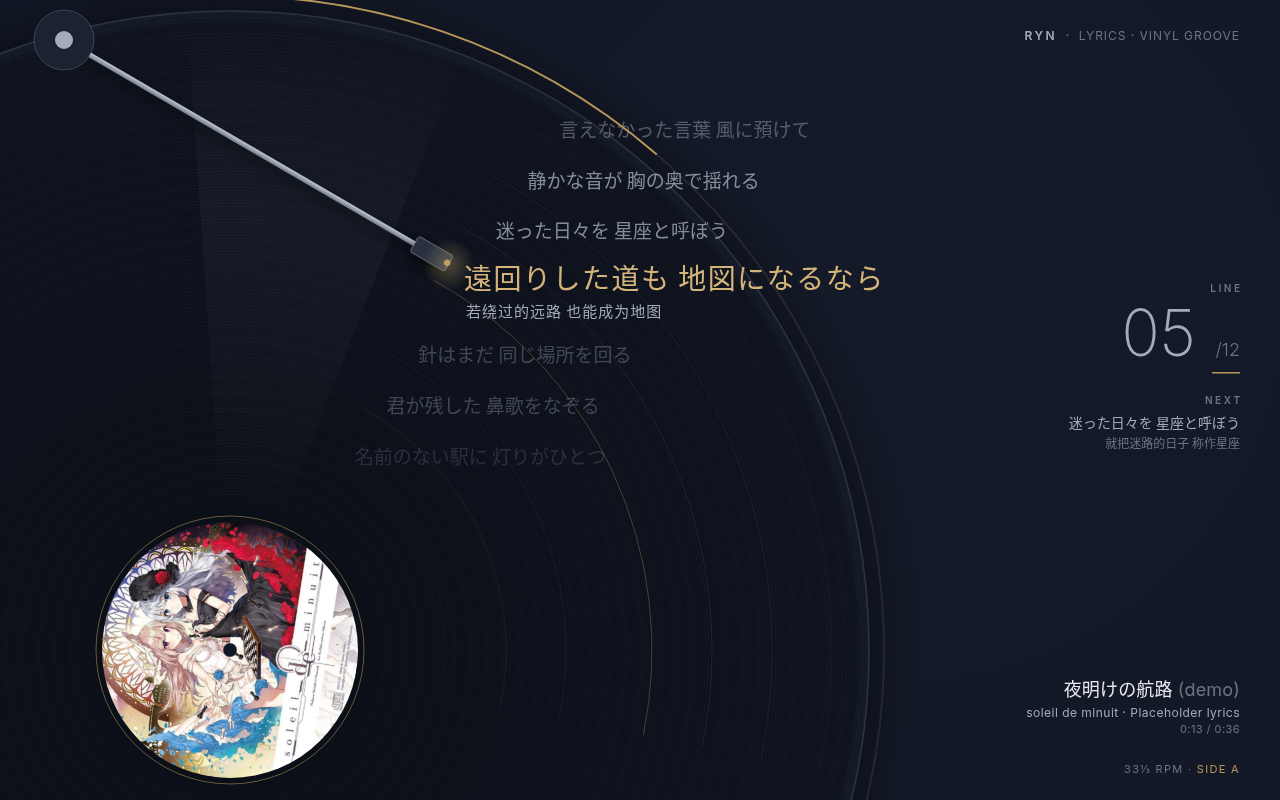
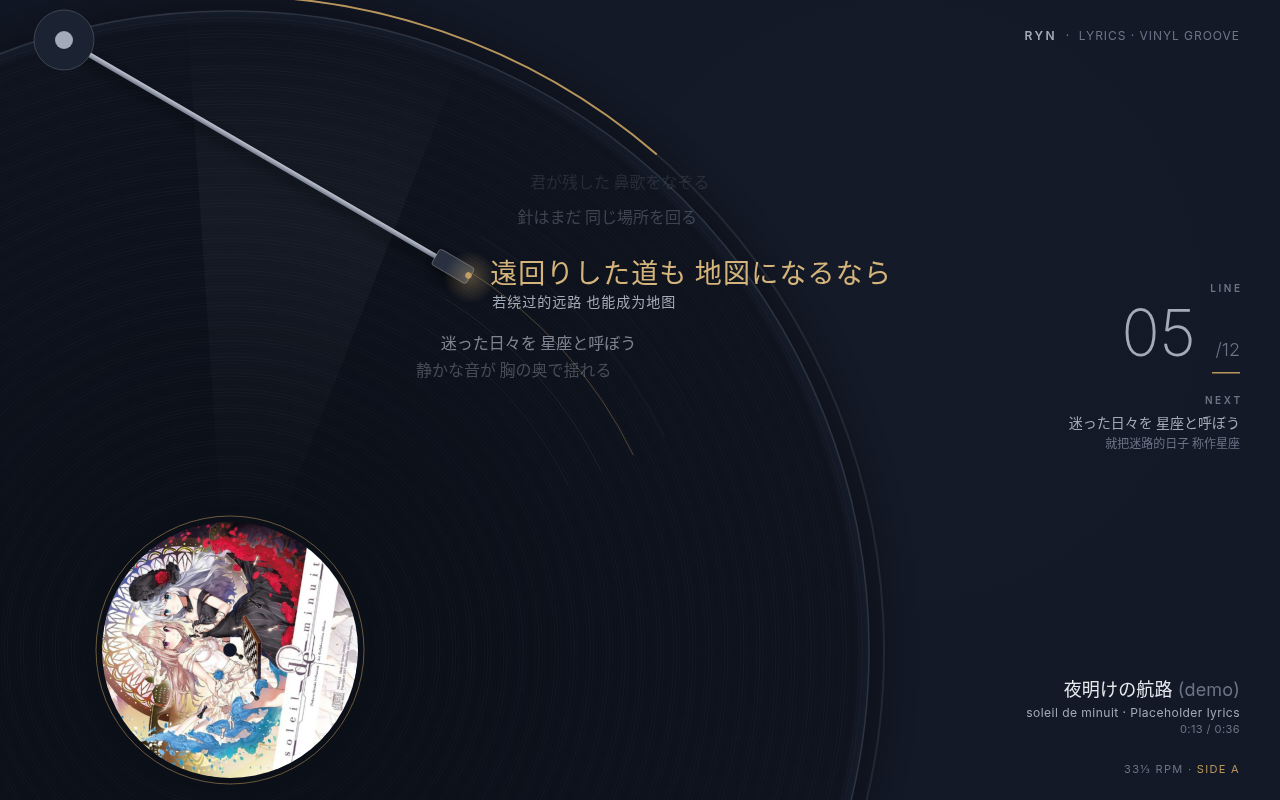
lyric-dial concept 1: tonearm tracks song progress outer→inner; lines on time-mapped grooves

diff --git a/ryn-lyric-dial/concept-1/index.html b/ryn-lyric-dial/concept-1/index.html
@@ -11,9 +11,16 @@
 </div>
 <script src="../assets/common.js"></script>
 <script>
-const CX = 230, CY = 650, R = 640, RC = 430, GAP = 60, LABEL = 128;
-const A = -60 * Math.PI / 180;       // needle angle (where every line starts)
-const PIV = {x: 64, y: 40};
+const CX = 230, CY = 650, R = 640, LABEL = 128;
+const PIV = {x: 64, y: 40}, ARM = 470;             // tonearm pivot + length (fixed)
+const R_OUT = 610, R_IN = 178, RETURN = 1.0;       // lead-in groove → run-out groove near the label
+const rAt = tt => lerp(R_OUT, R_IN, clamp(tt / SONG_DUR));          // needle radius at song time tt
+const grooveR = i => rAt((i + .5) * LINE_DUR);                       // line i's groove = needle radius mid-line
+const easeInOutSine = x => -(Math.cos(Math.PI * x) - 1) / 2;
+function tipAt(r) {   // where the arm's arc (around PIV, radius ARM) crosses groove radius r (right-hand solution)
+  const dx = CX - PIV.x, dy = CY - PIV.y, d = Math.hypot(dx, dy), a = (ARM * ARM - r * r + d * d) / (2 * d), h = Math.sqrt(Math.max(0, ARM * ARM - a * a));
+  return {x: PIV.x + a * dx / d + h * dy / d, y: PIV.y + a * dy / d - h * dx / d};
+}
 boot(({ctx, cover}, t, s) => {
   bgFill(ctx, 900, 300, 1100);
   const rot = t * 0.35;               // slow visual spin
@@ -50,45 +57,42 @@ boot(({ctx, cover}, t, s) => {
   ctx.fillStyle = C.bg; ctx.beginPath(); ctx.arc(CX, CY, 7, 0, Math.PI * 2); ctx.fill();
   ctx.strokeStyle = 'rgba(255,255,255,.25)'; ctx.stroke();
 
-  // lyric lines in grooves
-  ctx.textBaseline = 'alphabetic';
-  const items = [];
+  // ── needle tracks the song: outer groove at 0:00 → inner groove near the label at the end (continuous)
+  const sT = s.song;
+  let rN = rAt(sT);
+  if (sT < RETURN) rN = lerp(R_IN, rAt(sT), easeInOutSine(sT / RETURN));   // arm glides back out when the song loops
+  const tip = tipAt(rN);
+  // continuous line position (no wrap inside the song): p ∈ [-1, N-1]
+  const pLin = (s.idx === 0 && s.p > N - 1.5) ? s.p - N : s.p;
+
+  // lyric lines: line i lives on groove r_i = needle radius at the middle of its time slot
+  ctx.textBaseline = 'alphabetic'; ctx.textAlign = 'left';
   for (let i = 0; i < N; i++) {
-    const d = rel(i, s.p);
-    if (d < -4.6 || d > 3.6) continue;
-    items.push({i, d, r: RC + d * GAP - 26 * clamp(-d)});
-  }
-  for (const it of items) {
-    const f = focus(it.d);
-    const size = lerp(19, 28, f);
-    const fade = clamp(1 - (Math.abs(it.d) - 2.4) / 1.4) ; // fade far lines
-    const r = it.r;
-    // the groove the line sits in
-    ctx.lineWidth = 1;
-    ctx.strokeStyle = f > 0.01 ? `rgba(184,149,90,${0.35 * f})` : `rgba(255,255,255,${0.05 * fade})`;
-    ctx.beginPath(); ctx.arc(CX, CY, r - 8, A - .02, A + 1.25); ctx.stroke();
-    ctx.font = `${f > .5 ? 500 : 400} ${size}px ${FONT_JA}`;
-    const base = it.d > 0 ? C.sec : C.muted;
+    const d = i - pLin; if (d < -2.7 || d > 2.7) continue;
+    const f = focus(d), e = f * f * (3 - 2 * f);
+    const ri = grooveR(i);
+    // the groove itself (true radius), short arc running on from the arm
+    const ga = Math.atan2(tipAt(ri).y - CY, tipAt(ri).x - CX);
+    ctx.lineWidth = 1; ctx.strokeStyle = f > 0.01 ? `rgba(184,149,90,${0.4 * f})` : `rgba(255,255,255,${0.05 * clamp(1 - (Math.abs(d) - 1.5) / 1.5)})`;
+    ctx.beginPath(); ctx.arc(CX, CY, ri, ga - .02, ga + .55); ctx.stroke();
+    // text sits on the arm's sweep at its groove; neighbours ease apart a little to give the current line air
+    const push = d > 0 ? -50 * clamp(d) : 26 * clamp(-d);
+    const P = tipAt(ri + push);
+    const size = lerp(16, 27, e);
+    const fade = clamp(1 - (Math.abs(d) - 1.4) / 1.2);
+    ctx.font = `${f > .5 ? 500 : 400} ${size}px ${FONT_JA}`; ctx.letterSpacing = `${(e * 1.2).toFixed(2)}px`;
+    const base = d > 0 ? C.sec : C.muted;
     ctx.fillStyle = f > 0.01 ? mixColor(base, C.goldHi, f) : base;
-    ctx.globalAlpha = clamp(fade * (it.d < 0 ? .55 : .8) + f * .5);
-    // upright text: each line starts where its groove meets the needle and reads horizontally
-    const sx = CX + r * Math.cos(A + 0.035) + 6, sy = CY + r * Math.sin(A + 0.035) + 4;
-    ctx.textAlign = 'left'; ctx.letterSpacing = `${(f * 1.5).toFixed(2)}px`;
-    ctx.fillText(LYRICS[it.i].ja, sx, sy);
-    // translation: upright, just below the current line
-    if (f > 0.02) {
-      ctx.globalAlpha = f * f; ctx.letterSpacing = '1px';
-      ctx.font = `400 15px ${FONT_ZH}`; ctx.fillStyle = C.sec;
-      ctx.fillText(LYRICS[it.i].zh, sx + 2, sy + 28);
-    }
-    ctx.letterSpacing = '0px';
-    ctx.globalAlpha = 1;
+    ctx.globalAlpha = clamp(fade * (d < 0 ? .5 : .75) + f * .5);
+    const tx = P.x + 18, ty = P.y + size * .36;
+    ctx.fillText(LYRICS[i].ja, tx, ty);
+    if (f > 0.02) { ctx.globalAlpha = f * f; ctx.letterSpacing = '1px'; ctx.font = `400 14px ${FONT_ZH}`; ctx.fillStyle = C.sec; ctx.fillText(LYRICS[i].zh, tx + 2, ty + 24); }
+    ctx.globalAlpha = 1; ctx.letterSpacing = '0px';
   }
 
-  // tonearm (pivot top-left, tip at the current groove start)
+  // tonearm: fixed pivot, fixed length; its angle follows the needle radius
   const wob = Math.sin(t * 2.1) * 0.0025;
-  const tip = {x: CX + (RC + 13) * Math.cos(A - .008), y: CY + (RC + 13) * Math.sin(A - .008)};
-  const ang = Math.atan2(tip.y - PIV.y, tip.x - PIV.x) + wob, len = Math.hypot(tip.x - PIV.x, tip.y - PIV.y);
+  const ang = Math.atan2(tip.y - PIV.y, tip.x - PIV.x) + wob, len = ARM;
   ctx.save(); ctx.translate(PIV.x, PIV.y); ctx.rotate(ang);
   ctx.shadowColor = 'rgba(0,0,0,.6)'; ctx.shadowBlur = 14; ctx.shadowOffsetY = 6;
   const ag = ctx.createLinearGradient(0, -3, 0, 3); ag.addColorStop(0, '#c9ced8'); ag.addColorStop(1, '#6b7385');

diff --git a/ryn-lyric-dial/gallery.html b/ryn-lyric-dial/gallery.html
@@ -12,7 +12,7 @@ a.card img{display:block;width:100%;aspect-ratio:16/10;object-fit:cover}
 <h1>Ryn · 歌词盘 Lyric Dial</h1>
 <p class="sub">6 concepts · 1280×800 · placeholder lyrics · append <code>?t=12.5</code> to freeze a moment</p>
 <div class="grid">
-<a class="card" href="concept-1/index.html"><img src="shots/1.png"><div class="meta"><div class="n">CONCEPT 01</div><div class="t">唱片沟槽 · Vinyl Groove</div><div class="d">封面作唱片中心标，歌词沿同心沟槽排布、文字保持正立横排，唱臂针尖点亮当前行，歌词随播放向内推进。</div><div class="g">Godot: _draw() 同心圆 + 每行一个正立 draw_string（起点在沟槽与唱针交点）；标签旋转用 TextureRect.rotation。</div></div></a>
+<a class="card" href="concept-1/index.html"><img src="shots/1.png"><div class="meta"><div class="n">CONCEPT 01</div><div class="t">唱片沟槽 · Vinyl Groove</div><div class="d">封面作唱片中心标，唱针随歌曲进度从外圈连续移向内圈，每句歌词对应其时间点的沟槽，当前行始终在针尖处（正立横排），歌词随播放向内推进。</div><div class="g">Godot: _draw() 同心圆 + 每行一个正立 draw_string（起点在沟槽与唱针交点）；标签旋转用 TextureRect.rotation。</div></div></a>
 <a class="card" href="concept-2/index.html"><img src="shots/2.png"><div class="meta"><div class="n">CONCEPT 02</div><div class="t">星盘 · Astrolabe</div><div class="d">多层刻度环以不同速度转动，歌词刻在外环上，当前行转到 12 点刻度处摆正并点亮。</div><div class="g">Godot: 每环一个 Node2D(rotation) + _draw 刻度；歌词 draw_set_transform 旋转直排文字。</div></div></a>
 <a class="card" href="concept-3/index.html"><img src="shots/3.png"><div class="meta"><div class="n">CONCEPT 03</div><div class="t">仪表 · Gauge</div><div class="d">底部半圆模拟表盘，歌词沿弧排成刻度标签，指针带回弹扫向当前行，上方大字显示。</div><div class="g">Godot: 刻度烘焙一次（静态 _draw），每帧只重画指针 + 两行大字；Tween TRANS_BACK。</div></div></a>
 <a class="card" href="concept-4/index.html"><img src="shots/4.png"><div class="meta"><div class="n">CONCEPT 04</div><div class="t">八音盒滚筒 · Music-box Drum</div><div class="d">横置的透视滚筒印着歌词，当前行在正面平展，其余行随曲面压缩远去；左侧封面铭牌。</div><div class="g">Godot: draw_set_transform(scale=(sx,cosφ)) 逐行绘制 + 圆柱明暗 shader 或渐变纹理。</div></div></a>

diff --git a/ryn-lyric-dial/README.md b/ryn-lyric-dial/README.md
@@ -11,7 +11,7 @@ In Godot: compute `p` in `_process`, call `queue_redraw()`, map in `_draw()`.
 
 | # | Concept | Godot mapping | Per-frame cost (rough) |
 |---|---------|---------------|------------------------|
-| 1 | 唱片沟槽 Vinyl | Record + grooves baked to a texture (or static `_draw` cached in a separate CanvasItem); label = `TextureRect` with circle mask shader, `rotation += delta*k`. Sheen = additive wedge sprite rotating. Lyrics: upright horizontal `draw_string` per line, anchored where its groove meets the needle (start point = centre + r·(cos A, sin A)); no glyph rotation. Tonearm = `Sprite2D`/`Line2D`. | ~8 lines × ~15 glyphs ≈ 120 `draw_char` + few arcs. Cheap. |
+| 1 | 唱片沟槽 Vinyl | Record + grooves baked to a texture (or static `_draw` cached in a separate CanvasItem); label = `TextureRect` with circle mask shader, `rotation += delta*k`. Sheen = additive wedge sprite rotating. Needle tracks the song like a real record: needle radius r(t) = lerp(R_OUT 610, R_IN 178, t/duration), continuous; tonearm has a fixed pivot and length, tip = intersection of the arm's circle with the groove circle (closed form), arm angle = atan2(tip − pivot). Line i's groove = r((i+0.5)·lineDur), so the current line is always at the needle. Lyrics: upright horizontal `draw_string` per line placed on the arm's sweep at its groove (neighbours eased apart a little for air); no glyph rotation. On loop the arm glides back out over 1 s. Tonearm = `Sprite2D`/`Line2D`. | ~8 lines × ~15 glyphs ≈ 120 `draw_char` + few arcs. Cheap. |
 | 2 | 星盘 Astrolabe | Each ring a `Node2D` whose `_draw` emits ticks once (cached); animate only `rotation`. Lyrics: one `draw_set_transform(pos, angle)` + `draw_string` per line (straight, tangent-rotated). Cover with circle mask shader. | Rings cost ~0 after caching (transform only); 5 `draw_string`/frame. Very cheap. |
 | 3 | 仪表 Gauge | Dial face, progress ticks and radial labels redrawn only on line change (separate CanvasItem); needle = `Sprite2D`/`Polygon2D` with `rotation` driven by Tween `TRANS_BACK` (+ tiny jitter from `AudioEffectSpectrumAnalyzer`). Big line = 2 `Label`s cross-faded via `modulate.a`. | Per frame: 1 transform + 2 labels. Cheapest. |
 | 4 | 八音盒滚筒 Drum | For each visible line: `draw_set_transform(Vector2(cx, cy+R*sin φ), 0, Vector2(sx, cos φ))` then `draw_string`. Barrel silhouette = `draw_colored_polygon`; cylinder shading = gradient texture or a tiny CanvasItem shader on a ColorRect (`cos` shading on UV.y). Ribs = `draw_line` loop. | ~7 lines × 2 strings + ~40 lines + polygon. Cheap. Alternative: real 3D `CylinderMesh` + `SubViewport` text texture (heavier, not needed). |
